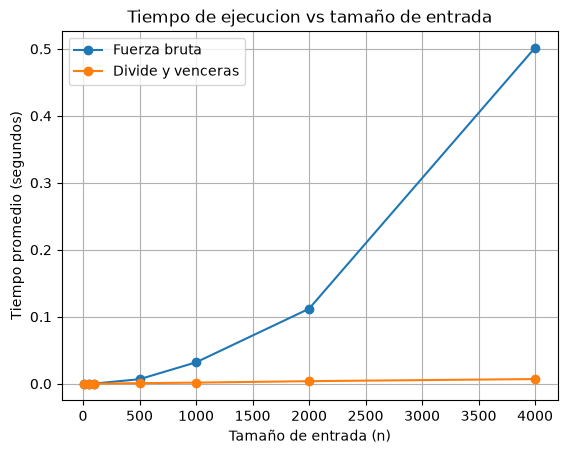
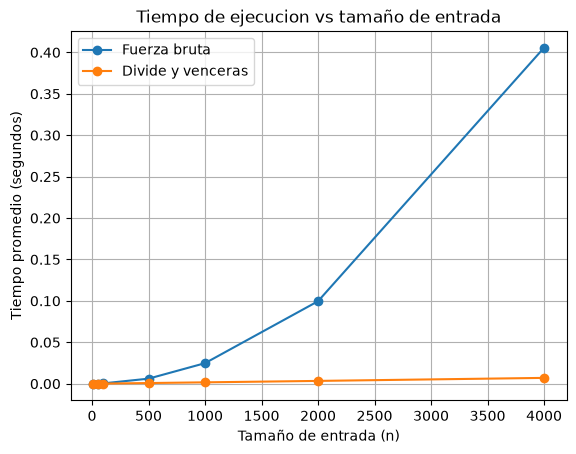
Corrige estilo y actualiza mediciones del laboratorio 2

diff --git a/lab2-divide-y-vencer/subarreglo.py b/lab2-divide-y-vencer/subarreglo.py
@@ -31,6 +31,7 @@ def subarreglo_fuerza_bruta(
 
     return mejor_inicio, mejor_fin, mejor_suma
 
+
 def suma_cruzada(
     valores: list[float],
     inicio: int,
@@ -74,6 +75,7 @@ def suma_cruzada(
     suma_total = mejor_suma_izquierda + mejor_suma_derecha
 
     return mejor_inicio, mejor_fin, suma_total
+
 
 def subarreglo_maximo(
     valores: list[float],

diff --git a/lab2-divide-y-vencer/medicion.py b/lab2-divide-y-vencer/medicion.py
@@ -3,16 +3,14 @@
 import random
 import time
 
-import matplotlib
-
-matplotlib.use("Agg")
-
 from matplotlib import pyplot as plt
 
 from subarreglo import (
     subarreglo_fuerza_bruta,
     subarreglo_maximo,
 )
+
+plt.switch_backend("Agg")
 
 
 TAMANOS = [10, 50, 100, 500, 1000, 2000, 4000]

diff --git a/lab2-divide-y-vencer/README.md b/lab2-divide-y-vencer/README.md
@@ -65,7 +65,13 @@ $$
 
 Con el método maestro, `a = 2`, `b = 2` y `f(n) = Θ(n)`. Como `n^(log₂2) = n` y `f(n)` tiene el mismo orden, se aplica el caso 2 y el resultado es `Θ(n log n)`.
 
-En fuerza bruta se usan dos ciclos para probar los posibles tramos. Como la suma se va acumulando y no se vuelve a calcular desde cero, el número de operaciones crece de forma cuadrática, por eso es `Θ(n²)`.
+En fuerza bruta, el ciclo exterior se ejecuta `n` veces. El ciclo interior no siempre hace `n` vueltas: primero hace `n`, luego `n - 1`, después `n - 2` y así hasta llegar a 1. Por eso, operaciones como acumular la suma y compararla se ejecutan en total:
+
+$$
+n + (n-1) + (n-2) + ... + 1
+$$
+
+Esta suma equivale a `n(n+1)/2`, por lo que al tomar el término que más crece la complejidad queda en `Θ(n²)`. Como la suma se va acumulando dentro del ciclo, no se vuelve a recorrer cada subarreglo desde cero.
 
 ## 2. Lo medido contra lo esperado
 
@@ -97,19 +103,19 @@ Por eso conviene dividir cuando esa estrategia realmente reduce la complejidad f
 
 ## 5. Concepto para la gerente
 
-De acuerdo con las pruebas, recomendaría divide y vencerás. Con `n = 4000`, fuerza bruta tardó `0,501808 segundos` y divide y vencerás `0,006938 segundos`.
+De acuerdo con las pruebas, recomendaría divide y vencerás. Con `n = 4000`, fuerza bruta tardó `0,405654 segundos` y divide y vencerás `0,007018 segundos`.
 
 Para estimar 1.000.000 de registros no hice una regla de tres lineal. En fuerza bruta escalé el tiempo según `n²`:
 
 $$
-0.501808
+0.405654
 \left(
 \frac{1\,000\,000}{4000}
 \right)^2
 $$
 
-El resultado es aproximadamente `31.363 segundos`, unas `8,71 horas`.
+El resultado es aproximadamente `25.353 segundos`, unas `7,04 horas`.
 
-Para divide y vencerás escalé según `n log n`, comparando el crecimiento entre los dos tamaños. El resultado estimado es aproximadamente `2,89 segundos`.
+Para divide y vencerás escalé según `n log n`, comparando el crecimiento entre los dos tamaños. El resultado estimado es aproximadamente `2,92 segundos`.
 
 Estos valores son una estimación, no una medición real. Aun así, la diferencia muestra que para series grandes divide y vencerás es una opción mucho más adecuada.
